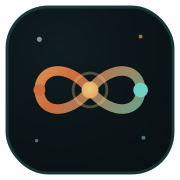
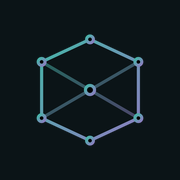
fix: reemplazar assets públicos por eikon pinakotheke-organon correctos
- navbar-logo.png: isotipo hexagonal (teal/gradient) desde eikon, 64x64 — reemplaza viejo icono sólido monocromo
- favicon-16/32.png, favicon.ico: isotipo eikon hexagonal — reemplaza lemniscata Mouseîon genérica
- apple-touch-icon.png, icon-192/512/512-maskable.png: isotipo Órganon desde eikon — reemplaza lemniscata umbrella incorrecta
- og-image.png: imagen social 1200x630 oficial eikon con branding Órganon
- alt text navbar: "Mouseîon lemniscata" → "Órganon isotipo"

diff --git a/app/page.tsx b/app/page.tsx
@@ -26,7 +26,7 @@ export default function Home() {
           >
             <Image
               src="/navbar-logo.png"
-              alt="Mouseîon lemniscata"
+              alt="Órganon isotipo"
               width={26}
               height={26}
               style={{ objectFit: 'contain' }}
